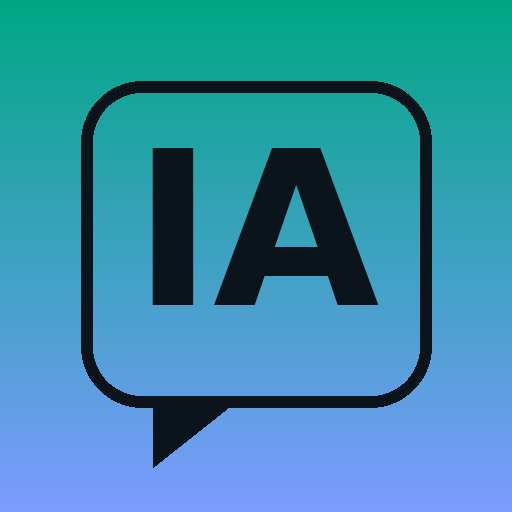
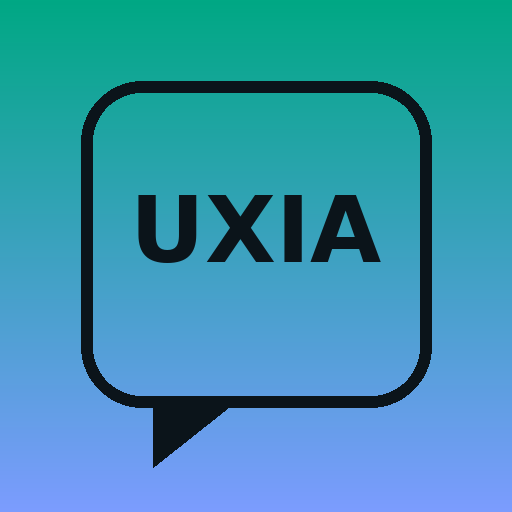
Renomeia o app para UXIA (titulo, manifesto, icone)
Claude-Session: https://claude.ai/code/session_014pwqvtK8JiuBLaLca7Yosj

Changed region(s): [[0.25, 0.2812, 0.75, 0.5938]]

diff --git a/index.html b/index.html
@@ -10,7 +10,7 @@
 <link rel="icon" href="icon-192.png">
 <link rel="apple-touch-icon" href="icon-192.png">
 <meta name="mobile-web-app-capable" content="yes">
-<title>Estúdio IA</title>
+<title>UXIA</title>
 <style>
   :root {
     --bg:#0b141a; --bar:#1f2c34; --me:#005c4b; --bot:#1f2c34; --txt:#e9edef; --mut:#8696a0;
@@ -70,7 +70,7 @@
 </head>
 <body>
 <header>
-  <div class="avatar">F</div>
+  <div class="avatar">U</div>
   <div class="who">
     <button class="name" id="pick" aria-label="Escolher modelo"><span id="mname">FLUX.1 [dev]</span><svg viewBox="0 0 24 24"><path d="M7 10l5 5 5-5z"/></svg></button>
     <div class="sub" id="sub">online · nada é salvo neste aparelho</div>

diff --git a/README.md b/README.md
@@ -1,4 +1,4 @@
-# Estúdio IA
+# UXIA
 
 App de conversa para gerar **imagens e vídeos** com modelos abertos hospedados em
 Hugging Face Spaces: FLUX.1 [dev], [schnell] e Kontext, CogVideoX, AnimateDiff Lightning e LTX-Video.
